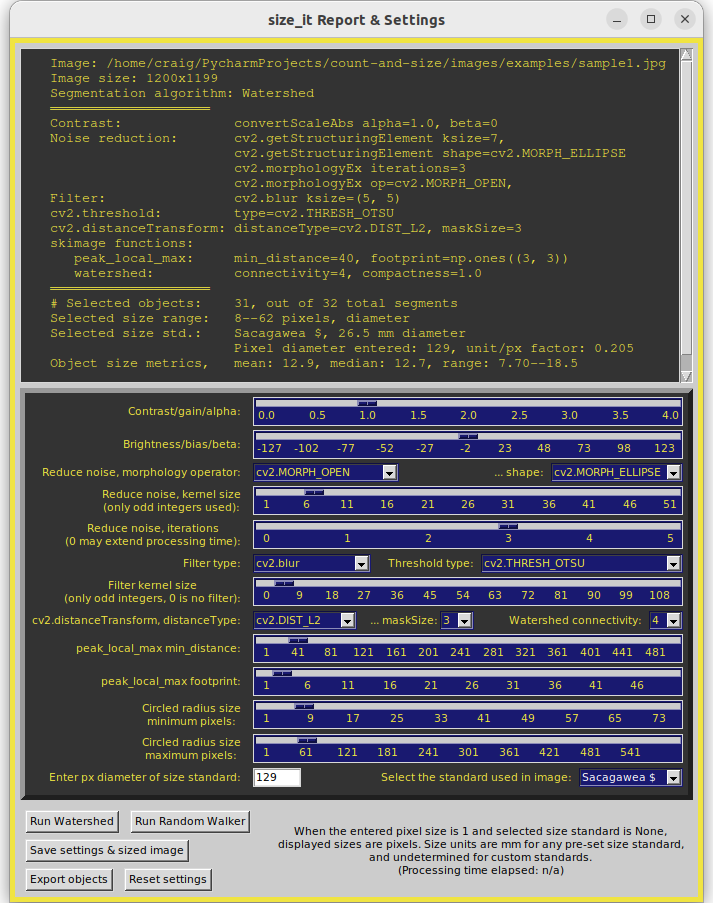
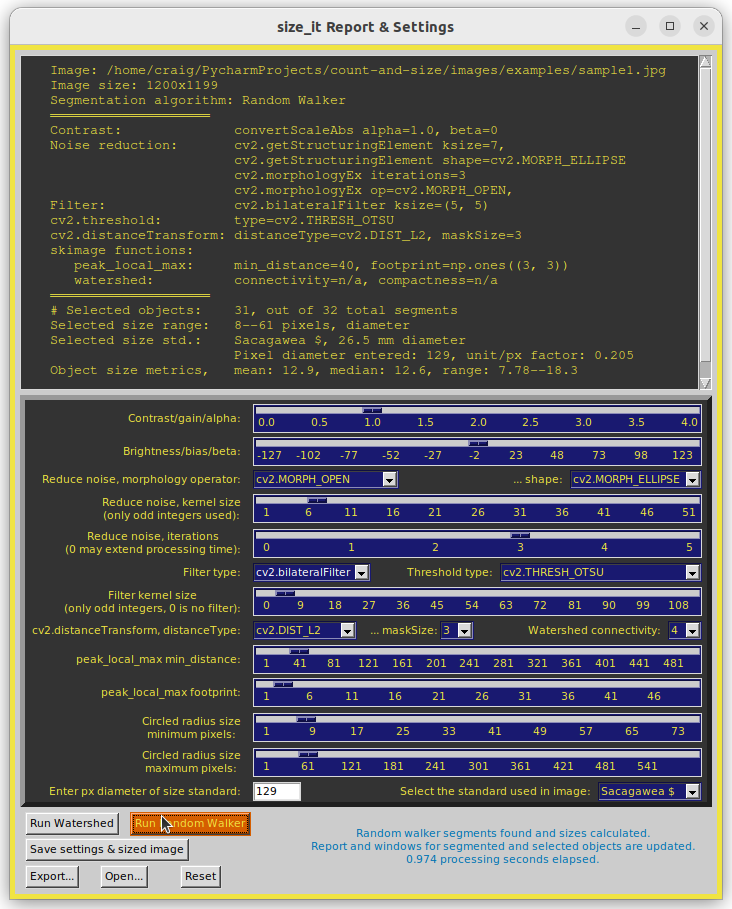
v 0.1.5: Updated README.md screenshots

diff --git a/size_it.py b/size_it.py
@@ -2118,7 +2118,7 @@ class ImageViewer(ProcessImage):
         # Set/Reset Combobox widgets.
         self.cbox['morphop'].current(0)  # 'cv2.MORPH_OPEN' == 2
         self.cbox['morphshape'].current(2)  # 'cv2.MORPH_ELLIPSE' == 2
-        self.cbox['filter'].current(0)  # 'cv2.blur' == 0, cv2 default
+        self.cbox['filter'].current(1)  # 'cv2.bilateralFilter'
         self.cbox['dt_type'].current(1)  # 'cv2.DIST_L2' == 2
         self.cbox['dt_mask_size'].current(1)  # '3' == cv2.DIST_MASK_3
         self.cbox['ws_connect'].current(1)  # '4'

diff --git a/README.md b/README.md
@@ -87,13 +87,13 @@ Once a file is selected, basic run parameters are set in a new pop-up window. Th
 
 ![initial settings screenshot](images/initial_settings_screenshot.png)
 
-When the "Process now" is clicked, the main settings and report window appears (below), along with multiple processed image windows. In this analysis, the Sacagawea dollar size standard was selected and its observed pixel diameter of 128 was entered. It was subsequently excluded from the reported object size metrics by reducing the 'Circled radius size maximum' until the coin no longer was annotated with its size (26.5 mm). The standard's pixel diameter of 129 was obtained from the initial result window when initial default settings were used. The report show that 31 object were found, with a mean of 12.9 mm, a median of 12.7 mm, covering a range of 7.70 to 18.5 mm.
+When the "Process now" is clicked, the main settings and report window appears (below), along with multiple processed image windows. In this analysis, the Sacagawea dollar size standard was selected and its observed pixel diameter of 129 was entered. It was subsequently excluded from the reported object size metrics by reducing the 'Circled radius size maximum' until the coin no longer was annotated with its size (26.5 mm). The standard's pixel diameter of 129 was obtained from the initial result window when initial default settings were used. The report shows that 31 objects were selected from 32 Random Walker segments, giving a mean of 12.9 mm, a median of 12.6 mm, and a range of 7.78 to 18.3 mm.
 
 ![settings and report screenshot](images/settings_report_screenshot.png)
 
 Below, the resulting annotated image. Clicking the "Save settings & sized image" button exports the annotated image (at its original resolution), and the settings report, including the 31 individual sizes, to the input image's folder.
 
-![sample1 result](images/sample1_result_screenshot.jpg)
+![sample1 result](images%2Fsample1_result_screenshot.png)
 
 Below, resulting annotated image for the input `sample2.jpg` and the text output of its saved settings. Objects were properly segmented by adjusting (from their defaults) the values for contrast, noise reduction, filter, and peak local maximum. Values for the selected size range and standard were then applied.
 
